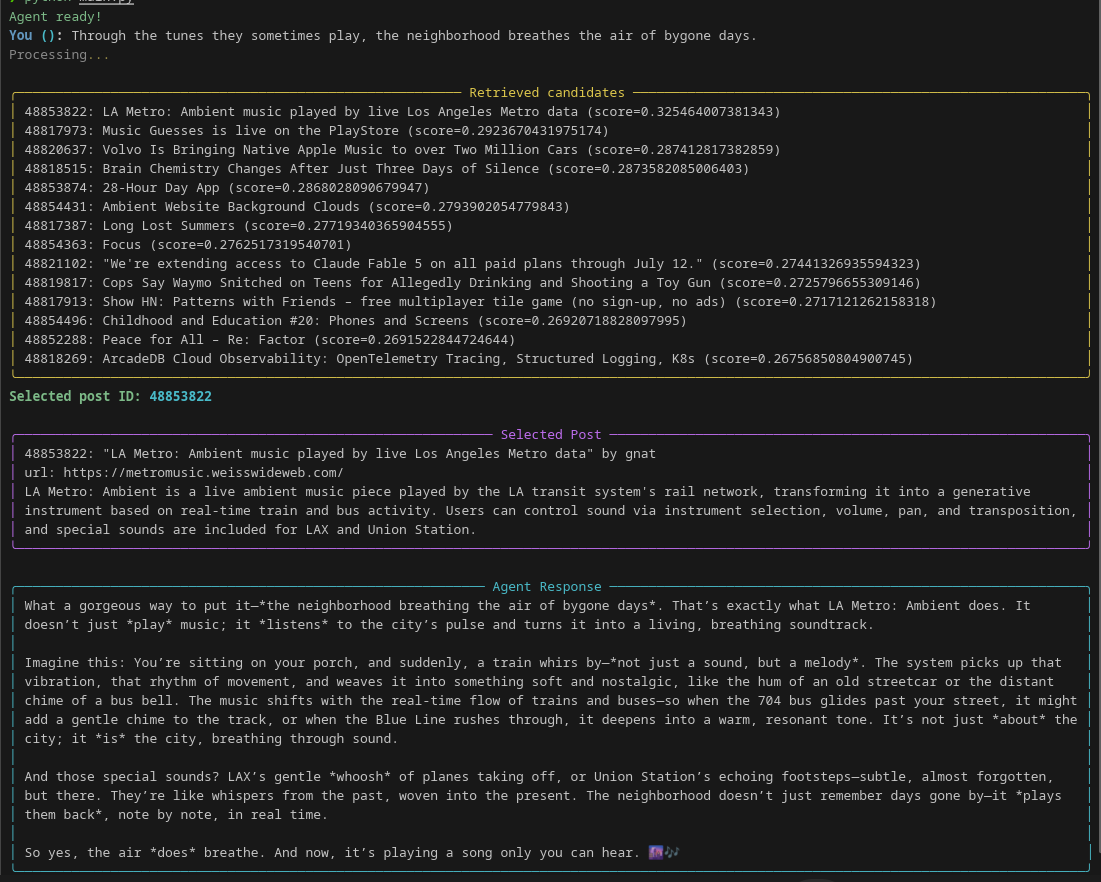
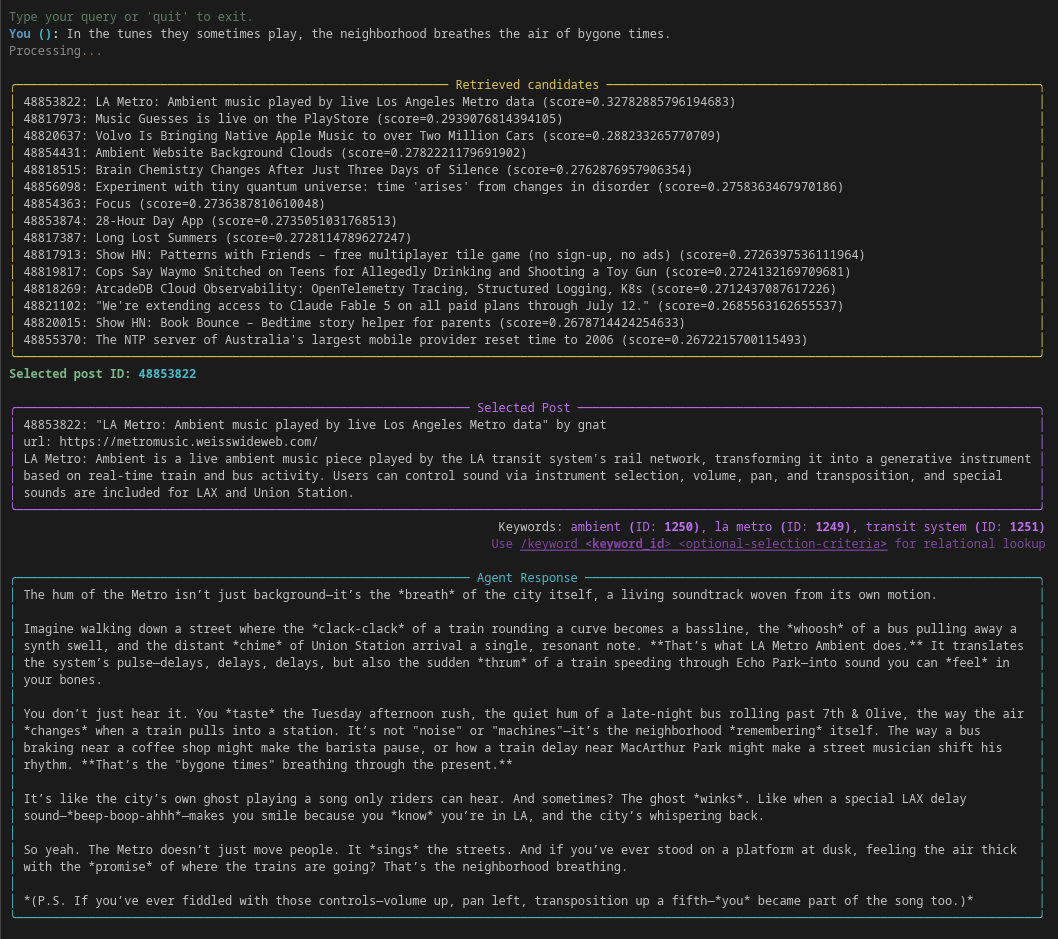
docs: update README.md and screenshot

Changed region(s): [[0.0, 0.0, 1.0, 0.9796]]

diff --git a/README.md b/README.md
@@ -2,15 +2,9 @@
 
 > **🚧 Work in Progress** - This project is under active development. The ultimate goal is to build a **news curation assistant for content creation**.
 
-A LangGraph-based conversational agent that enriches user conversations by associating inputs with relevant Hacker News articles using semantic search and vector embeddings.
+A LangGraph-based conversational agent that enriches user conversations by associating inputs with relevant scraped Hacker News articles using semantic search.
 
-This project was built to run on **small local models** - no need for expensive GPUs or cloud APIs. By breaking tasks into smaller pieces (like one agent just picking the right post, another just writing the response), each model only needs to handle simple jobs with limited context. The whole thing runs on your own machine, keeping your data private while still being smart enough to be useful.
-
-The system follows a retrieval-selection-response pipeline:
-1. **Retrieve**: Semantic search finds candidate posts
-2. **Select**: LLM selects the most relevant post
-3. **Fetch**: Retrieves full post details with wire analysis
-4. **Respond**: Generates contextual response linking user input to selected post
+Designed for small local models via specialized agents, this project can run entirely on your machine without GPUs or cloud APIs. It relies on the **Ollama** local LLM server for both text generation and embeddings.
 
 ## Screenshot
 
@@ -35,6 +29,19 @@ cp .env.example .env
 # Edit .env to configure Ollama models and database path
 ```
 
+### 🛠 Ollama Notice
+
+ Before running the agent you should:
+
+1. Install Ollama following the instructions at https://ollama.com.
+2. Start the server locally (the default port `11434` is used by the code).
+3. Download the required models by running, for example:
+	```bash
+	ollama pull all-minilm:33m   # Embedding model
+	ollama pull alibayram/hunyuan:0.5b   # Selector/Writer models
+	```
+
+
 ## Usage
 
 ```bash
@@ -47,11 +54,11 @@ The agent will start an interactive CLI where you can ask questions and receive 
 ## Configuration
 
 Key environment variables in `.env`:
-- `OLLAMA_BASE_URL`: Ollama API endpoint
-- `OLLAMA_EMBEDDING_MODEL`: Model for embeddings (default: `all-minilm:33m`)
-- `SELECTOR_LLM_MODEL`: Model for post selection
-- `WRITER_LLM_MODEL`: Model for response generation
-- `DATABASE_PATH`: Path to SQLite database
+* `OLLAMA_BASE_URL`: Ollama API endpoint (default: `http://localhost:11434`)
+* `OLLAMA_EMBEDDING_MODEL`: Model for embeddings (default: `all-minilm:33m`)
+* `SELECTOR_LLM_MODEL`: Model for post selection
+* `WRITER_LLM_MODEL`: Model for response generation
+* `DATABASE_PATH`: Path to SQLite database
 
 ## License
 
